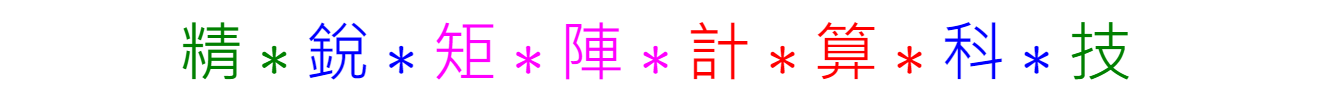
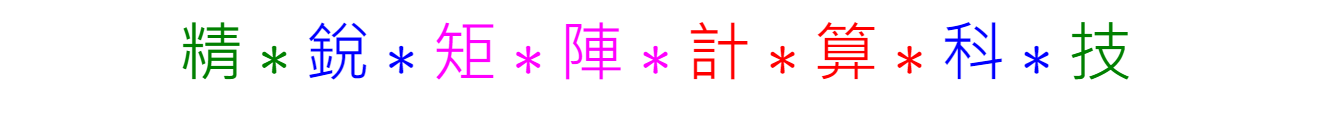
Mod_01-Docs_2E

diff --git a/README.md b/README.md
@@ -765,6 +765,12 @@ Console.WriteLine($"矩陣Aa與矩陣A相等:\n{new PR(Aa)}");
 -->  
 ![](Images/06-27-08.png)  
 
-## [精 銳 科 技【矩陣計算求解器開發】](https://www.github.com/myyeh2/App_CSharp)  
+## [精 銳 科 技【矩陣計算求解器開發】 https://www.github.com/myyeh2/App_CSharp ](https://www.github.com/myyeh2/App_CSharp)  
+
+<!--    
+# \[{ \color{Green}精*\color{Blue}銳*\color{Fuchsia}矩*陣*\color{Red}計*算*\color{Blue}科*\color{Green}技}\]
+-->
+![](Images2/24-12-09-01.png)
+
 
 ![](Images/name_card.png)  
